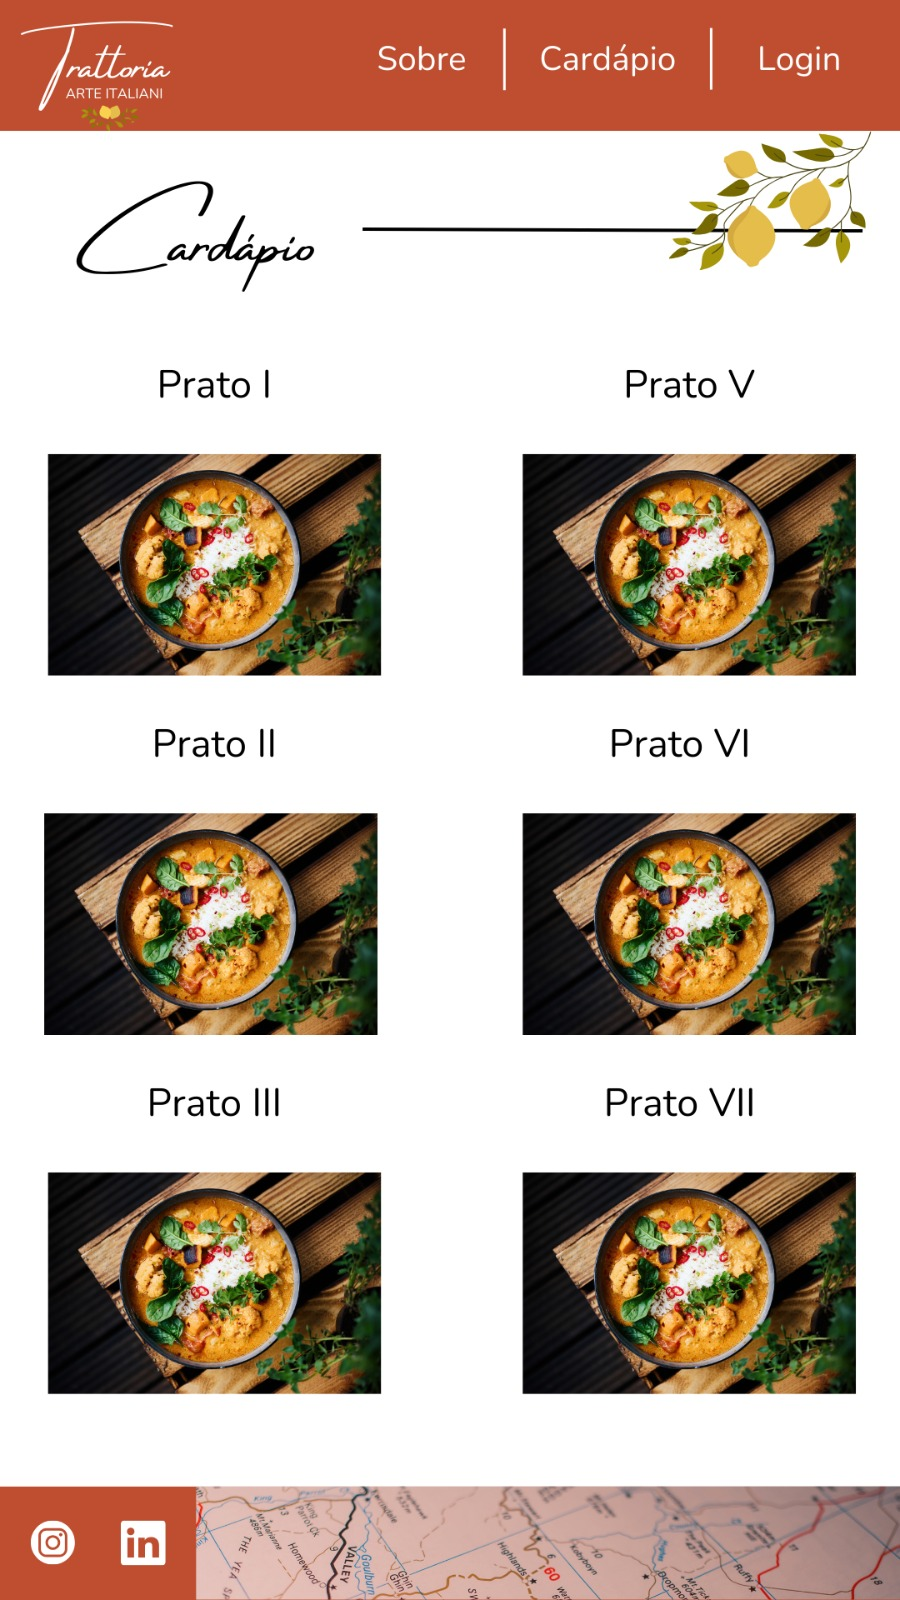
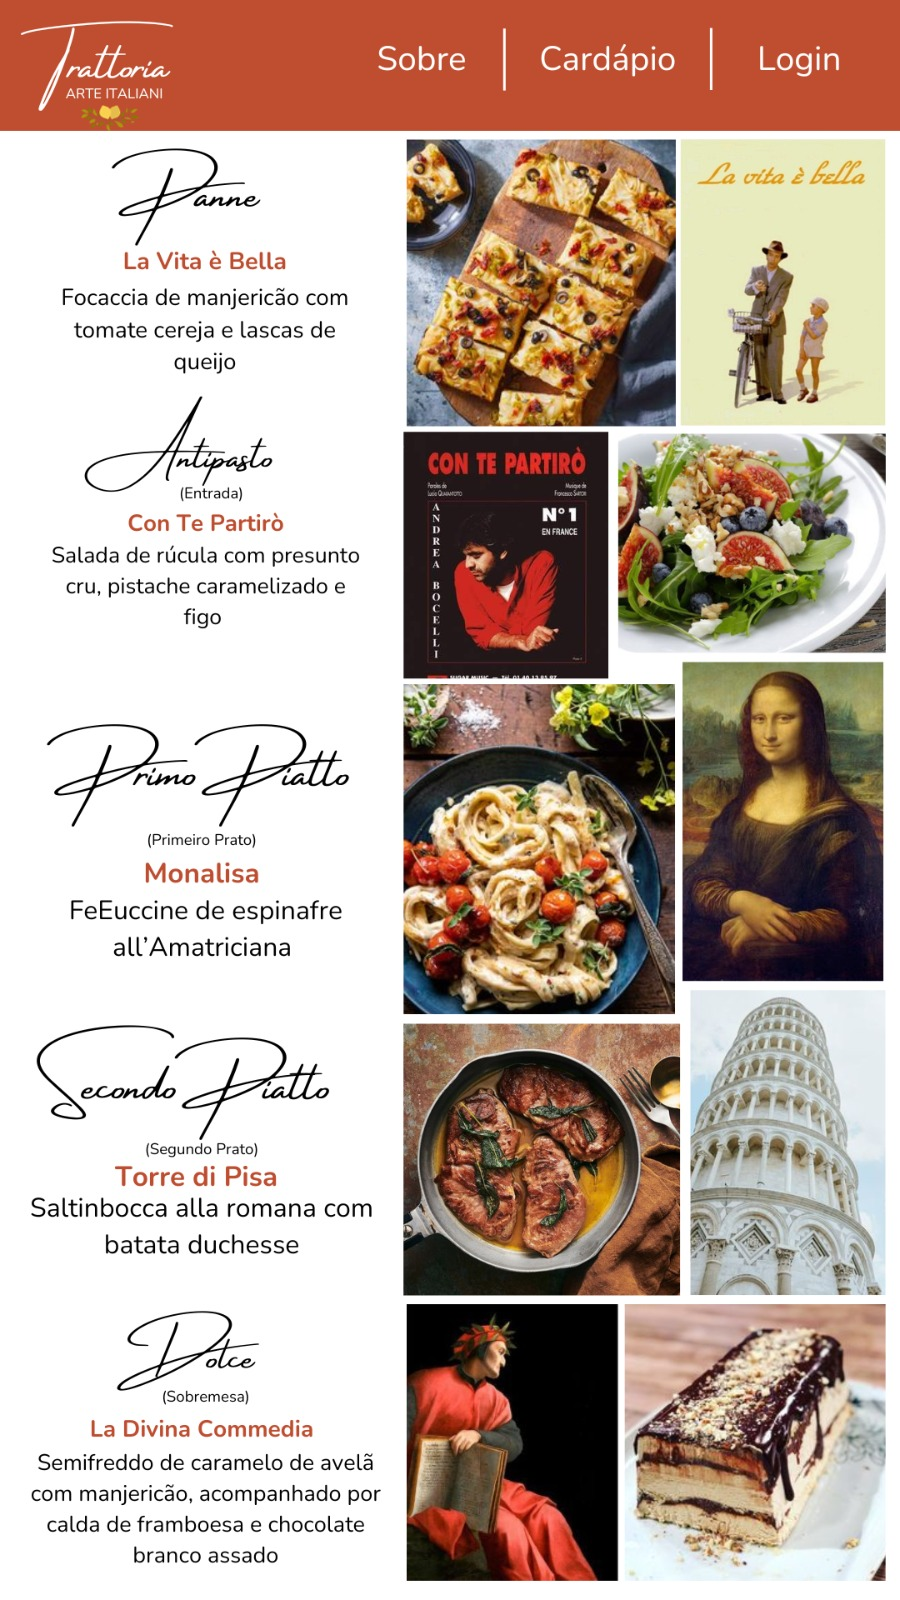
30/09 Commit

diff --git a/pages/menu.html b/pages/menu.html
@@ -27,23 +27,70 @@
             <img class="plant" src="../images/plants.png" alt="">
         </div>
 
-        <div class="title-dish">
-            <h2>Panne</h2>
-            <h3>Cortesia</h3>
+        <div class="dish">
+            <div class="texts">
+                <h2>Panne</h2>
+                <h3>La Vita è Bella</h3>
+                <p>Focaccia de manjericão com tomate cereja e lascas de queijo</p>
+            </div>
+            <div class="images">
+                <img class="img" src="../images/menu-images/panne.jpg" alt="Panne Image">
+                <img class="img" src="../images/menu-images/la-vita-e-bella.png" alt="La Vita è Bela Image">
+            </div>
         </div>
         <div class="dish">
-            <div>
-                <img class="image" src="../images/arroz-e-feijao.jpg" alt="Prato 1">
+            <div class="texts">
+                <h2>Antipasto</h2>
+                <h4>Entrada</h4>
+                <h3>Con Te Partirò</h3>
+                <p>Salada de rúcula com presunto cru, pistache caramelizado e figo</p>
             </div>
-            <div class="description">
-                <p><strong>Panne:</strong> focaccia de manjericão com tomate cereja e lascas de queijo</p>
+            <div class="images">
+                <img class="img" src="../images/menu-images/con-te-partiro.png" alt="Con Te Partiró Image">
+                <img class="img" src="../images/menu-images/antipasto.png" alt="Panne Image">
+            </div>
+        </div>
+        <div class="dish">
+            <div class="texts">
+                <h2>Primo Piatto</h2>
+                <h4>Primeiro prato</h4>
+                <h3>Monalisa</h3>
+                <p>Fettuccine de espinafre all’Amatriciana</p>
+            </div>
+            <div class="images">
+                <img class="img" src="../images/menu-images/primo-piatto.png" alt="Primo Piatto Image">
+                <img class="img" src="../images/menu-images/monalisa.png" alt="Monalisa Image">
+            </div>
+        </div>
+        <div class="dish">
+            <div class="texts">
+                <h2>Secondo Piatto</h2>
+                <h4>Segundo prato</h4>
+                <h3>Torre di Pisa</h3>
+                <p>Saltinbocca alla romana com batata duchesse</p>
+            </div>
+            <div class="images">
+                <img class="img" src="../images/menu-images/torre-di-pisa.png" alt="Torre di Pisa Image">
+                <img class="img" src="../images/menu-images/secondo-piatto.png" alt="Secondo Piatto Image">
+            </div>
+        </div>
+        <div class="dish dolce">
+            <div class="texts">
+                <h2>Dolce</h2>
+                <h4>Sobremesa</h4>
+                <h3>La Divina Commedia</h3>
+                <p>Semifreddo de caramelo de avelã com manjericão, acompanhado por calda de framboesa e chocolate branco assado</p>
+            </div>
+            <div class="images">
+                <img class="img" src="../images/menu-images/dolce.png" alt="Dolce Image">
+                <img class="img" src="../images/menu-images/la-divina-commedia.png" alt="La Divina Commedia Image">
             </div>
         </div>
 
         <footer>
             <a target="_blank" href="https://www.instagram.com/edertec/"><i class="fab fa-instagram fa-2x"></i></a>
             <a target="_blank" href="https://www.linkedin.com/in/migvalentini/"><i class="fab fa-linkedin fa-2x"></i></a>
-         </footer>
+        </footer>
     </div>
 </body>
 </html>

diff --git a/styles/menu.css b/styles/menu.css
@@ -4,27 +4,15 @@
     src: url('..//fonts/Amsterdam.ttf');
 }
 
-.title {
-    display: flex;
-    align-items: center;
-    justify-content: center;
-}
-
 h1 {
     font-family: myFont;
     margin-left: 15px;
 }
 
-h2 {
-    font-family: "Nunito Sans", sans-serif;
-    font-weight: 700;
-    margin-left: 15%;
-}
-
-h3 {
-    font-family: "Nunito Sans", sans-serif;
-    font-style: italic;
-    font-size: 12px;
+.title {
+    display: flex;
+    align-items: center;
+    justify-content: center;
 }
 
 .black-line {
@@ -41,19 +29,49 @@ h3 {
     z-index: 2;
 }
 
-p {
+h2 {
+    font-family: myFont;
+    font-size: 18px;
+    text-align: center;
+}
+
+h3 {
+    color: #BF4E30;
+}
+
+h4 {
+    font-style: italic;
+    font-size: 12px;
+}
+
+h3, h4, p {
     font-family: "Nunito Sans", sans-serif;
-    text-align: justify;
+    text-align: center;
 }
 
 .dish {
-    padding: 20px;
     display: flex;
     align-items: center;
-    gap: 20px;
+    justify-content: center;
+    margin: 20px 0px;
 }
 
-.image {
-    height: 80px;
-    width: 120px;
+.dolce {
+    margin-bottom: 40px;
+}
+
+.texts {
+    width: 50%;
+    padding: 10px;
+}
+
+.images {
+    width: 50%;
+    height: 150px;
+}
+
+.img {
+    height: 100%;
+    object-fit: cover;
+    border-radius: 6px;
 }
